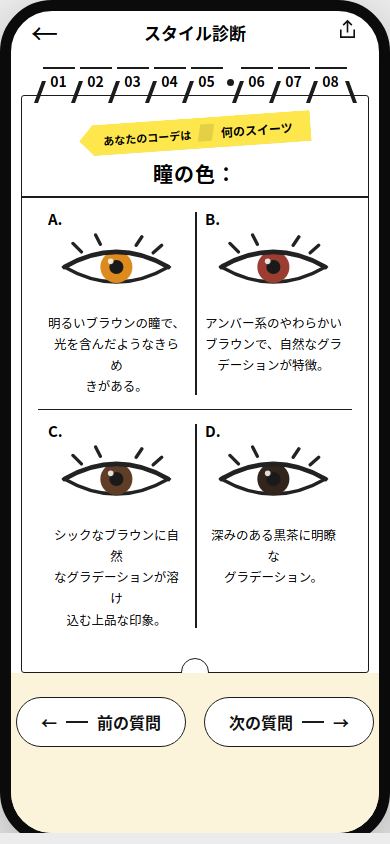
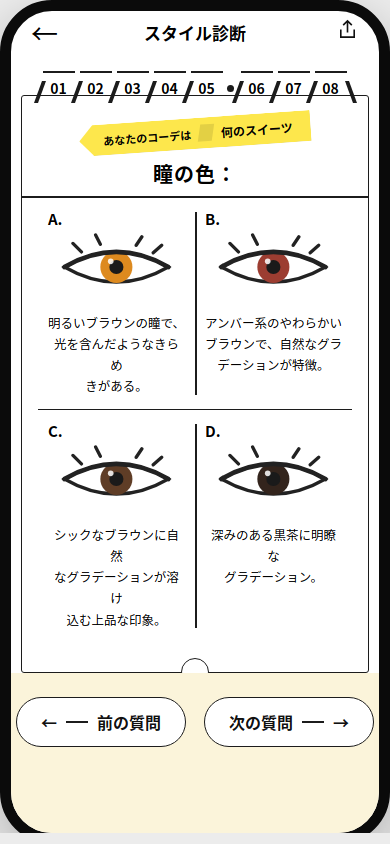
docs: tab 数字贴底边框，短横与数字间留空隙，对齐参考图

diff --git a/prototype/style-shindan/style-shindan-repro.html b/prototype/style-shindan/style-shindan-repro.html
@@ -49,9 +49,9 @@
   .step .sl { width:4px; height:22px; background:#1c1c1c; transform:skewX(-20deg); margin:0 1px -6px 0; flex:none; }
   .step .sl.r { transform:skewX(20deg); margin:0 0 -6px 2px; }
   .step .tcell { display:flex; flex-direction:column; align-items:stretch; }
-  .step .ol { height:2px; background:#1c1c1c; width:32px; margin-bottom:5px; }
-  .step .nm { font-size:14px; font-weight:700; line-height:1; padding-bottom:9px; text-align:center; font-style:normal; }
-  .step .dt { width:7px; height:7px; border-radius:50%; background:#1c1c1c; margin:0 2px 11px 4px; flex:none; }
+  .step .ol { height:2px; background:#1c1c1c; width:32px; margin-bottom:8px; }
+  .step .nm { font-size:14px; font-weight:700; line-height:1; padding-bottom:2px; text-align:center; font-style:normal; }
+  .step .dt { width:7px; height:7px; border-radius:50%; background:#1c1c1c; margin:0 2px 5px 4px; flex:none; }
   .card {
     margin:42px 10px 0; border:1.6px solid #1c1c1c; border-radius:3px;
     background:#fff; position:relative; padding:20px 16px 30px; flex-shrink:0;
